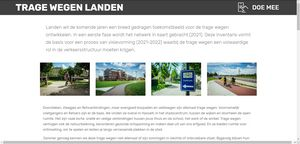
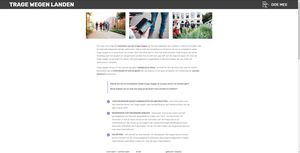
aanpassing_tekst

diff --git a/index.html b/index.html
@@ -40,22 +40,24 @@
         <div class="menu-logo">
             <div class="navbar-brand">
                 
-                <span class="navbar-caption-wrap"><a class="navbar-caption text-white display-1" href="index.html">
-                        TRAGE WEGEN LANDEN</a></span>
+                <span class="navbar-caption-wrap"><a class="navbar-caption text-white display-1" href="index.html">TRAGE WEGEN LANDEN</a></span>
             </div>
         </div>
         <div class="collapse navbar-collapse" id="navbarSupportedContent">
-            <ul class="navbar-nav nav-dropdown nav-right" data-app-modern-menu="true"><li class="nav-item">
+            <ul class="navbar-nav nav-dropdown" data-app-modern-menu="true"><li class="nav-item">
                     <a class="nav-link link text-white display-4" href="page1.html"><span class="mbri-touch mbr-iconfont mbr-iconfont-btn"></span>
                         
                         DOE MEE</a>
                 </li></ul>
-            
+            <div class="navbar-buttons mbr-section-btn"><a class="btn btn-sm btn-primary display-4" href="https://mobirise.co">
+                    <span class="mbri-save mbr-iconfont mbr-iconfont-btn "></span>
+                    Probeer het nu!
+                </a></div>
         </div>
     </nav>
 </section>
 
-<section class="engine"><a href="https://mobirise.info/x">css templates</a></section><section class="mbr-section article content3 cid-rQbUgujYzw" id="content3-n">
+<section class="engine"><a href="https://mobirise.info/z">best free website templates</a></section><section class="mbr-section article content3 cid-rQbUgujYzw" id="content3-n">
       
      
 
@@ -63,8 +65,7 @@
         <div class="media-container-row">
             <div class="row col-12 col-md-12">
                 <div class="col-12 mbr-text mbr-fonts-style col-md-12 display-2">
-                     <p>Landen wil de komende jaren een breed gedragen
- toekomstbeeld voor de trage wegen ontwikkelen en de trage wegen een volwaardige rol in de verkeersstructuur toekennen.&nbsp;<span style="font-size: 1.5rem;">In een eerste fase wordt het netwerk in kaart gebracht (2021). Deze inventaris vormt de basis voor een proces van visievorming (2021-2022).  Ook jij kan helpen bij de realisatie van dit tragewegenplan!</span></p>
+                     <p><span style="font-size: 1.5rem;">Landen wil de komende jaren een breed gedragen&nbsp;</span><span style="font-size: 1.5rem;">toekomstbeeld voor de trage wegen ontwikkelen en de&nbsp;</span><span style="font-size: 1.5rem;">trage wegen een volwaardige rol in de verkeersstructuur&nbsp;</span><span style="font-size: 1.5rem;">toekennen. Jij kan ons helpen bij de realisatie van&nbsp;</span><span style="font-size: 1.5rem;">dit tragewegenplan!&nbsp;</span><span style="font-size: 1.5rem;">Samen met Trage Wegen, IGO,&nbsp;</span><span style="font-size: 1.5rem;">inwoners en lokale organisaties, wil Landen het netwerk&nbsp;</span><span style="font-size: 1.5rem;">inventariseren, verbeteren en uitbreiden.</span></p>
                 </div>
                 
                 
@@ -82,34 +83,34 @@
     <div class="container">
         
         
-        <div class="row mbr-gallery" data-toggle="modal" data-target="#svod9LXfgM">
+        <div class="row mbr-gallery" data-toggle="modal" data-target="#svoxo01MYL">
             <div class="col-sm-6 col-md-4 col-lg-3 item gallery-image">
                 <div class="item-wrapper">
-                    <img class="w-100" src="assets/images/tragewegen-201908-ingedelee-199.jpg" alt="" data-slide-to="0" title="" data-target="#svod9LXieO">
+                    <img class="w-100" src="assets/images/tragewegen-201908-ingedelee-199.jpg" alt="" data-slide-to="0" title="" data-target="#svoxo01LzA">
                 </div>
             </div>
             <div class="col-sm-6 col-md-4 col-lg-3 item gallery-image">
                 <div class="item-wrapper">
-                    <img class="w-100" src="assets/images/tragewegen-201908-ingedelee-122.jpg" alt="" data-slide-to="1" title="" data-target="#svod9LXieO">
+                    <img class="w-100" src="assets/images/tragewegen-201908-ingedelee-122.jpg" alt="" data-slide-to="1" title="" data-target="#svoxo01LzA">
                 </div>
             </div>
             <div class="col-sm-6 col-md-4 col-lg-3 item gallery-image">
                 <div class="item-wrapper">
-                    <img class="w-100" src="assets/images/tragewegen-201908-ingedelee-131.jpg" alt="" data-slide-to="2" title="" data-target="#svod9LXieO">
+                    <img class="w-100" src="assets/images/tragewegen-201908-ingedelee-131.jpg" alt="" data-slide-to="2" title="" data-target="#svoxo01LzA">
                 </div>
             </div><div class="col-sm-6 col-md-4 col-lg-3 item gallery-image">
                 <div class="item-wrapper">
-                    <img class="w-100" src="assets/images/tragewegen-201908-ingedelee-125.jpg" alt="" data-slide-to="3" title="" data-target="#svod9LXieO">
+                    <img class="w-100" src="assets/images/tragewegen-201908-ingedelee-125.jpg" alt="" data-slide-to="3" title="" data-target="#svoxo01LzA">
                 </div>
             </div>
             
         </div>
 
-        <div class="modal mbr-slider fade" tabindex="-1" role="dialog" aria-hidden="true" id="svod9LXfgM">
+        <div class="modal mbr-slider fade" tabindex="-1" role="dialog" aria-hidden="true" id="svoxo01MYL">
             <div class="modal-dialog" role="document">
                 <div class="modal-content">
                     <div class="modal-body">
-                        <div class="carousel slide" data-ride="carousel" id="svod9LXieO">
+                        <div class="carousel slide" data-ride="carousel" id="svoxo01LzA">
                             <div class="carousel-inner">
                                 <div class="carousel-item active">
                                     <img class="d-block w-100" src="assets/images/tragewegen-201908-ingedelee-199.jpg" alt="">
@@ -125,18 +126,18 @@
                                 
                             </div>
                             <ol class="carousel-indicators">
-                                <li data-slide-to="0" class="active" data-target="#svod9LXieO"></li><li data-slide-to="1" class="active" data-target="#svod9LXieO"></li>
-                                <li data-slide-to="2" data-target="#svod9LXieO"></li>
-                                <li data-slide-to="3" data-target="#svod9LXieO"></li>
+                                <li data-slide-to="0" class="active" data-target="#svoxo01LzA"></li><li data-slide-to="1" class="active" data-target="#svoxo01LzA"></li>
+                                <li data-slide-to="2" data-target="#svoxo01LzA"></li>
+                                <li data-slide-to="3" data-target="#svoxo01LzA"></li>
                                 
                             </ol>
                             <a role="button" href="" class="close" data-dismiss="modal" aria-label="Close">
                             </a>
-                            <a class="carousel-control-prev carousel-control" role="button" data-slide="prev" href="#svod9LXieO">
+                            <a class="carousel-control-prev carousel-control" role="button" data-slide="prev" href="#svoxo01LzA">
                                 <span class="mbri-left mbr-iconfont" aria-hidden="true"></span>
                                 <span class="sr-only">Vorige</span>
                             </a>
-                            <a class="carousel-control-next carousel-control" role="button" data-slide="next" href="#svod9LXieO">
+                            <a class="carousel-control-next carousel-control" role="button" data-slide="next" href="#svoxo01LzA">
                                 <span class="mbri-right mbr-iconfont" aria-hidden="true"></span>
                                 <span class="sr-only">Volgende</span>
                             </a>
@@ -148,14 +149,28 @@
     </div>
 </section>
 
+<section class="mbr-section article content1 cid-svokmZZueE" id="content2-3o">
+
+     
+
+    <div class="container">
+        <div class="media-container-row">
+            <div class="mbr-text col-12 col-md-8 mbr-fonts-style display-7">
+                <blockquote><p> <span style="font-style: normal;"><strong>TRAGE WEGEN?</strong> </span></p><p><span style="font-style: normal;">Doorsteken, steegjes en fietsverbindingen, maar evengoed bospaden en veldwegen zijn allemaal trage wegen. Voornamelijk voetgangers en fietsers zijn er de baas. We vinden ze overal in Landen: in de dorpskernen, tussen de wijken en doorheen de open ruimte. </span></p><p><span style="font-style: normal;">Het zijn vaak korte, snelle en veilige verbindingen tussen jouw thuis en de school, het werk of de winkel. Trage wegen verhogen ook de natuurbeleving, bevorderen gezonde ontspanning en maken deel uit van ons erfgoed. En ze bieden ruimte voor ontmoeting, om te spelen en leiden je langs verrassende plekken in de stad.</span></p></blockquote>
+            </div>
+        </div>
+    </div>
+</section>
+
 <section class="mbr-section article content1 cid-rQc35fbMtZ" id="content1-o">
     
      
 
     <div class="container">
         <div class="media-container-row">
-            <div class="mbr-text col-12 mbr-fonts-style display-7 col-md-12"><p>Doorsteken, steegjes en fietsverbindingen, maar evengoed bospaden en veldwegen zijn allemaal trage wegen. Voornamelijk voetgangers en fietsers zijn er de baas. We vinden ze overal in Landen: in de dorpskernen, tussen de wijken en doorheen de open ruimte. Het zijn vaak korte, snelle en veilige verbindingen tussen jouw thuis en de school, het werk of de winkel.  Trage wegen verhogen ook de natuurbeleving, bevorderen gezonde ontspanning en maken deel uit van ons erfgoed. En ze bieden ruimte voor ontmoeting, om te spelen en leiden je langs verrassende plekken in de stad.</p><p>Niet alle trage wegen zijn gekend, een aantal zijn in
- slechte of onbruikbare staat&nbsp;<span style="font-size: 1.1rem;">waardoor hun troeven onbenut blijven. Op vlak van actieve mobiliteit zijn er naar de toekomst toe ongetwijfeld nog heel wat kansen. Samen met </span><a href="https://www.tragewegen.be" target="_blank" style="font-size: 1.1rem; background-color: rgb(255, 255, 255);">Trage Wegen</a><span style="font-size: 1.1rem;">, </span><a href="https://www.igo.be/" target="_blank" style="font-size: 1.1rem; background-color: rgb(255, 255, 255);">IGO</a><span style="font-size: 1.1rem;">, inwoners en lokale organisaties wil stad Landen daarom het netwerk inventariseren, verbeteren en uitbreiden.</span></p></div>
+            <div class="mbr-text col-12 mbr-fonts-style display-7 col-md-12"><p><span style="font-size: 1.1rem;">Niet alle trage wegen zijn gekend, een aantal zijn in
+ slechte of onbruikbare staat&nbsp;</span><span style="font-size: 1.1rem;">waardoor hun troeven onbenut blijven. Op vlak van actieve mobiliteit zijn er naar de toekomst toe nog heel wat kansen. Samen met </span><a href="https://www.tragewegen.be" target="_blank" style="font-size: 1.1rem; background-color: rgb(255, 255, 255);">Trage Wegen</a><span style="font-size: 1.1rem;">, </span><a href="https://www.igo.be/" target="_blank" style="font-size: 1.1rem; background-color: rgb(255, 255, 255);">IGO</a><span style="font-size: 1.1rem;">, inwoners en lokale organisaties wil stad Landen daarom het netwerk inventariseren, verbeteren en uitbreiden.</span><br></p><p><span style="font-size: 1.1rem;">Landen wil de komende jaren een breed gedragen toekomstbeeld voor de trage wegen ontwikkelen en de trage wegen een volwaardige rol in de verkeersstructuur toekennen. In een eerste fase wordt het netwerk in kaart gebracht (2021). Deze inventaris vormt de basis voor een proces van visievorming (2021-2022). Ook jij kan helpen bij de realisatie van dit tragewegenplan!</span></p><p><span style="font-size: 1.1rem;">Niet alle trage wegen zijn gekend, een aantal zijn in
+&nbsp;</span><span style="font-size: 1.1rem;">slechte staat waardoor hun troeven onbenut blijven.&nbsp;</span><span style="font-size: 1.1rem;">Daarom brengen we tijdens de eerste fase van dit project&nbsp;</span><span style="font-size: 1.1rem;">het netwerk in kaart. Deze basis tragewegenkaart zal een&nbsp;</span><span style="font-size: 1.1rem;">geactualiseerd beeld van het tragewegennet in Landen&nbsp;</span><span style="font-size: 1.1rem;">geven en duidelijkheid brengen over welke paden of&nbsp;</span><span style="font-size: 1.1rem;">wegen er nog zijn, welke er nog zouden moeten bestaan&nbsp;</span><span style="font-size: 1.1rem;">en welke er in de loop van de jaren in onbruik raakten of&nbsp;</span><span style="font-size: 1.1rem;">verdwenen zijn.&nbsp;</span><span style="font-size: 1.1rem;">In een latere fase zullen we werken aan een&nbsp;</span><span style="font-size: 1.1rem;">gebiedsgerichte visie, om per gebied aan te geven&nbsp;</span><span style="font-size: 1.1rem;">op welke manier het netwerk naar de toekomst toe&nbsp;</span><span style="font-size: 1.1rem;">uitgebouwd en versterkt kan worden. Zo wordt o.a.&nbsp;</span><span style="font-size: 1.1rem;">duidelijk welke wegen toe zijn aan een herwaardering&nbsp;</span><span style="font-size: 1.1rem;">of herinrichting, welke misschien kunnen worden&nbsp;</span><span style="font-size: 1.1rem;">opgeheven omdat ze geen enkel doel meer dienen, of&nbsp;</span><span style="font-size: 1.1rem;">welke wegen toekomstgericht best behouden blijven&nbsp;</span><span style="font-size: 1.1rem;">zonder er evenwel meteen extra in te investeren.&nbsp;</span><span style="font-size: 1.1rem;">Via een actief participatief proces willen we tot een&nbsp;</span><span style="font-size: 1.1rem;">consensus komen over het nut en de functie van de&nbsp;</span><span style="font-size: 1.1rem;">trage wegen. De consensus houdt in dat er een goed&nbsp;</span><span style="font-size: 1.1rem;">evenwicht is tussen behouden, verplaatsen en afschaffen&nbsp;</span><span style="font-size: 1.1rem;">van trage wegen. Deze consensus vormt mee de basis&nbsp;</span><span style="font-size: 1.1rem;">van de visie.</span></p></div>
         </div>
     </div>
 </section>
@@ -169,34 +184,34 @@
     <div class="container">
         
         
-        <div class="row mbr-gallery" data-toggle="modal" data-target="#svod9LXywb">
+        <div class="row mbr-gallery" data-toggle="modal" data-target="#svoxo02Rud">
             <div class="col-sm-6 col-md-4 col-lg-3 item gallery-image">
                 <div class="item-wrapper">
-                    <img class="w-100" src="assets/images/tragewegen-201908-ingedelee-90.jpg" alt="" data-slide-to="0" title="" data-target="#svod9LYUwk">
+                    <img class="w-100" src="assets/images/tragewegen-201908-ingedelee-90.jpg" alt="" data-slide-to="0" title="" data-target="#svoxo02Isl">
                 </div>
             </div><div class="col-sm-6 col-md-4 col-lg-3 item gallery-image">
                 <div class="item-wrapper">
-                    <img class="w-100" src="assets/images/tragewegen-201908-ingedelee-77.jpg" alt="" data-slide-to="1" title="" data-target="#svod9LYUwk">
+                    <img class="w-100" src="assets/images/tragewegen-201908-ingedelee-77.jpg" alt="" data-slide-to="1" title="" data-target="#svoxo02Isl">
                 </div>
             </div><div class="col-sm-6 col-md-4 col-lg-3 item gallery-image">
                 <div class="item-wrapper">
-                    <img class="w-100" src="assets/images/tragewegen-201908-ingedelee-170.jpg" alt="" data-slide-to="2" title="" data-target="#svod9LYUwk">
+                    <img class="w-100" src="assets/images/tragewegen-201908-ingedelee-170.jpg" alt="" data-slide-to="2" title="" data-target="#svoxo02Isl">
                 </div>
             </div>
             <div class="col-sm-6 col-md-4 col-lg-3 item gallery-image">
                 <div class="item-wrapper">
-                    <img class="w-100" src="assets/images/tragewegen-201908-ingedelee-163.jpg" alt="" data-slide-to="3" title="" data-target="#svod9LYUwk">
+                    <img class="w-100" src="assets/images/tragewegen-201908-ingedelee-163.jpg" alt="" data-slide-to="3" title="" data-target="#svoxo02Isl">
                 </div>
             </div>
             
             
         </div>
 
-        <div class="modal mbr-slider fade" tabindex="-1" role="dialog" aria-hidden="true" id="svod9LXywb">
+        <div class="modal mbr-slider fade" tabindex="-1" role="dialog" aria-hidden="true" id="svoxo02Rud">
             <div class="modal-dialog" role="document">
                 <div class="modal-content">
                     <div class="modal-body">
-                        <div class="carousel slide" data-ride="carousel" id="svod9LYUwk">
+                        <div class="carousel slide" data-ride="carousel" id="svoxo02Isl">
                             <div class="carousel-inner">
                                 <div class="carousel-item active">
                                     <img class="d-block w-100" src="assets/images/tragewegen-201908-ingedelee-90.jpg" alt="">
@@ -212,18 +227,18 @@
                                 
                             </div>
                             <ol class="carousel-indicators">
-                                <li data-slide-to="0" class="active" data-target="#svod9LYUwk"></li>
-                                <li data-slide-to="1" data-target="#svod9LYUwk"></li>
-                                <li data-slide-to="2" data-target="#svod9LYUwk"></li>
-                                <li data-slide-to="3" data-target="#svod9LYUwk"></li>
+                                <li data-slide-to="0" class="active" data-target="#svoxo02Isl"></li>
+                                <li data-slide-to="1" data-target="#svoxo02Isl"></li>
+                                <li data-slide-to="2" data-target="#svoxo02Isl"></li>
+                                <li data-slide-to="3" data-target="#svoxo02Isl"></li>
                             </ol>
                             <a role="button" href="" class="close" data-dismiss="modal" aria-label="Close">
                             </a>
-                            <a class="carousel-control-prev carousel-control" role="button" data-slide="prev" href="#svod9LYUwk">
+                            <a class="carousel-control-prev carousel-control" role="button" data-slide="prev" href="#svoxo02Isl">
                                 <span class="mbri-left mbr-iconfont" aria-hidden="true"></span>
                                 <span class="sr-only">Vorige</span>
                             </a>
-                            <a class="carousel-control-next carousel-control" role="button" data-slide="next" href="#svod9LYUwk">
+                            <a class="carousel-control-next carousel-control" role="button" data-slide="next" href="#svoxo02Isl">
                                 <span class="mbri-right mbr-iconfont" aria-hidden="true"></span>
                                 <span class="sr-only">Volgende</span>
                             </a>

diff --git a/page1.html b/page1.html
@@ -40,22 +40,24 @@
         <div class="menu-logo">
             <div class="navbar-brand">
                 
-                <span class="navbar-caption-wrap"><a class="navbar-caption text-white display-1" href="index.html">
-                        TRAGE WEGEN LANDEN</a></span>
+                <span class="navbar-caption-wrap"><a class="navbar-caption text-white display-1" href="index.html">TRAGE WEGEN LANDEN</a></span>
             </div>
         </div>
         <div class="collapse navbar-collapse" id="navbarSupportedContent">
-            <ul class="navbar-nav nav-dropdown nav-right" data-app-modern-menu="true"><li class="nav-item">
+            <ul class="navbar-nav nav-dropdown" data-app-modern-menu="true"><li class="nav-item">
                     <a class="nav-link link text-white display-4" href="page1.html"><span class="mbri-touch mbr-iconfont mbr-iconfont-btn"></span>
                         
                         DOE MEE</a>
                 </li></ul>
-            
+            <div class="navbar-buttons mbr-section-btn"><a class="btn btn-sm btn-primary display-4" href="https://mobirise.co">
+                    <span class="mbri-save mbr-iconfont mbr-iconfont-btn "></span>
+                    Probeer het nu!
+                </a></div>
         </div>
     </nav>
 </section>
 
-<section class="engine"><a href="https://mobirise.info/k">develop free website</a></section><section class="features2 cid-rQmQMGRh2Z" id="features2-2z">
+<section class="engine"><a href="https://mobirise.info/u">bootstrap website templates</a></section><section class="features2 cid-rQmQMGRh2Z" id="features2-2z">
 
     
 
@@ -160,7 +162,7 @@
         <div class="row justify-content-center">
             <div class="media-container-column col-lg-8" data-form-type="formoid">
                 <!---Formbuilder Form--->
[2 lines of base64/hex data omitted]
                     <div class="row">
                         <div hidden="hidden" data-form-alert="" class="alert alert-success col-12">Bedankt voor jouw enthousiasme en medewerking!</div>
                         <div hidden="hidden" data-form-alert-danger="" class="alert alert-danger col-12">

diff --git a/assets/mobirise/css/mbr-additional.css b/assets/mobirise/css/mbr-additional.css
@@ -1900,6 +1900,9 @@ section.lazy-placeholder:after {
 .cid-rQbUgujYzw .mbr-text {
   color: #767676;
 }
+.cid-rQbUgujYzw .mbr-text P {
+  text-align: left;
+}
 .cid-rQcg3z86Xx {
   padding-top: 30px;
   padding-bottom: 0px;
@@ -2083,6 +2086,15 @@ section.lazy-placeholder:after {
   -ms-transform: none;
   -o-transform: none;
   transform: none;
+}
+.cid-svokmZZueE {
+  padding-top: 15px;
+  padding-bottom: 0px;
+  background-color: #ffffff;
+}
+.cid-svokmZZueE .mbr-text,
+.cid-svokmZZueE blockquote {
+  color: #767676;
 }
 .cid-rQc35fbMtZ {
   padding-top: 15px;
